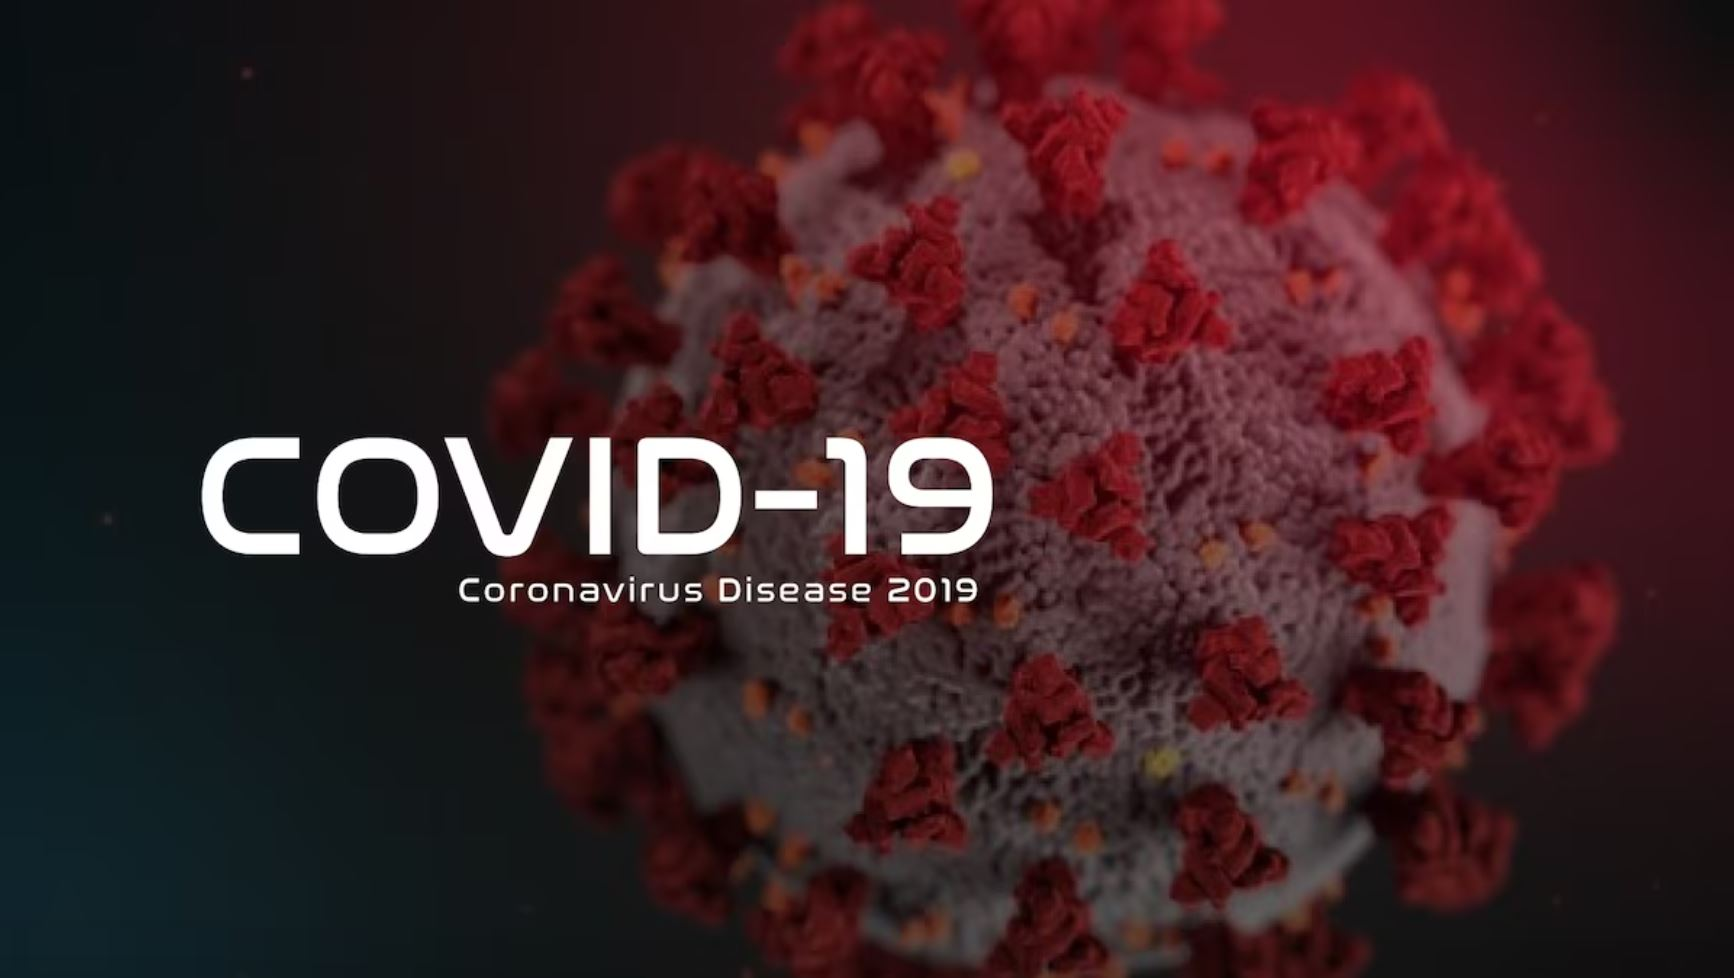
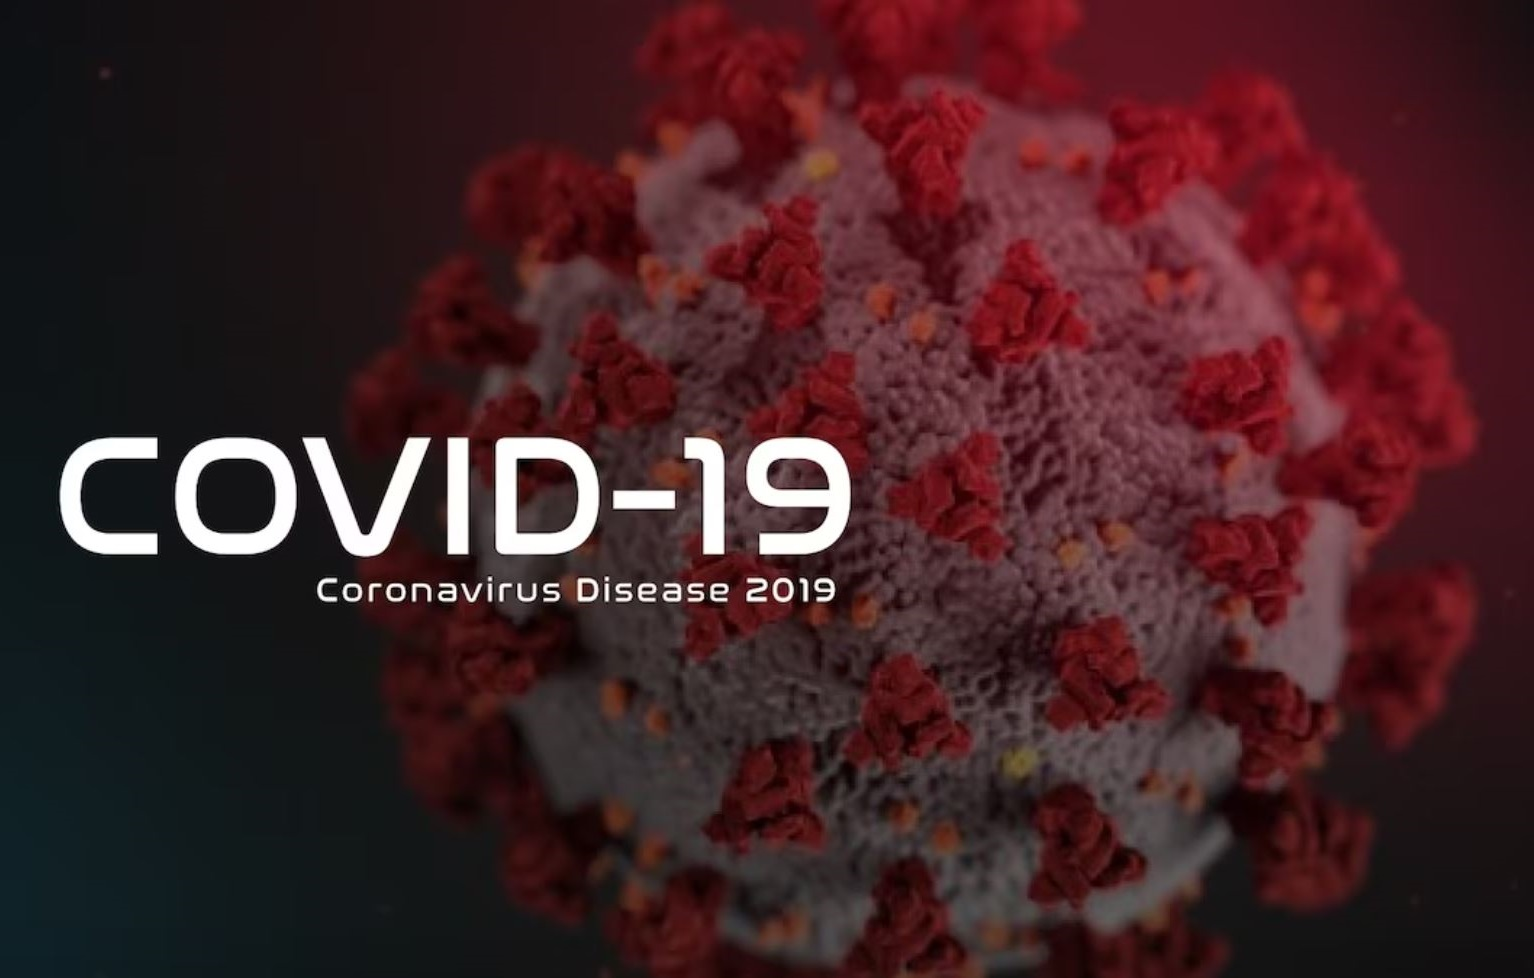
Update covid photo

diff --git a/portfolio-details-covid.html b/portfolio-details-covid.html
@@ -96,7 +96,7 @@
         <div class="portfolio-details-container">
 
           <div class="owl-carousel portfolio-details-carousel">
-            <img src="assets/img/portfolio/iww.jpg" class="img-fluid" alt="">
+            <img src="assets/img/portfolio/covid.jpg" class="img-fluid" alt="">
 <!--            <img src="assets/img/portfolio-details-2.jpg" class="img-fluid" alt="">-->
 <!--            <img src="assets/img/portfolio-details-3.jpg" class="img-fluid" alt="">-->
           </div>
